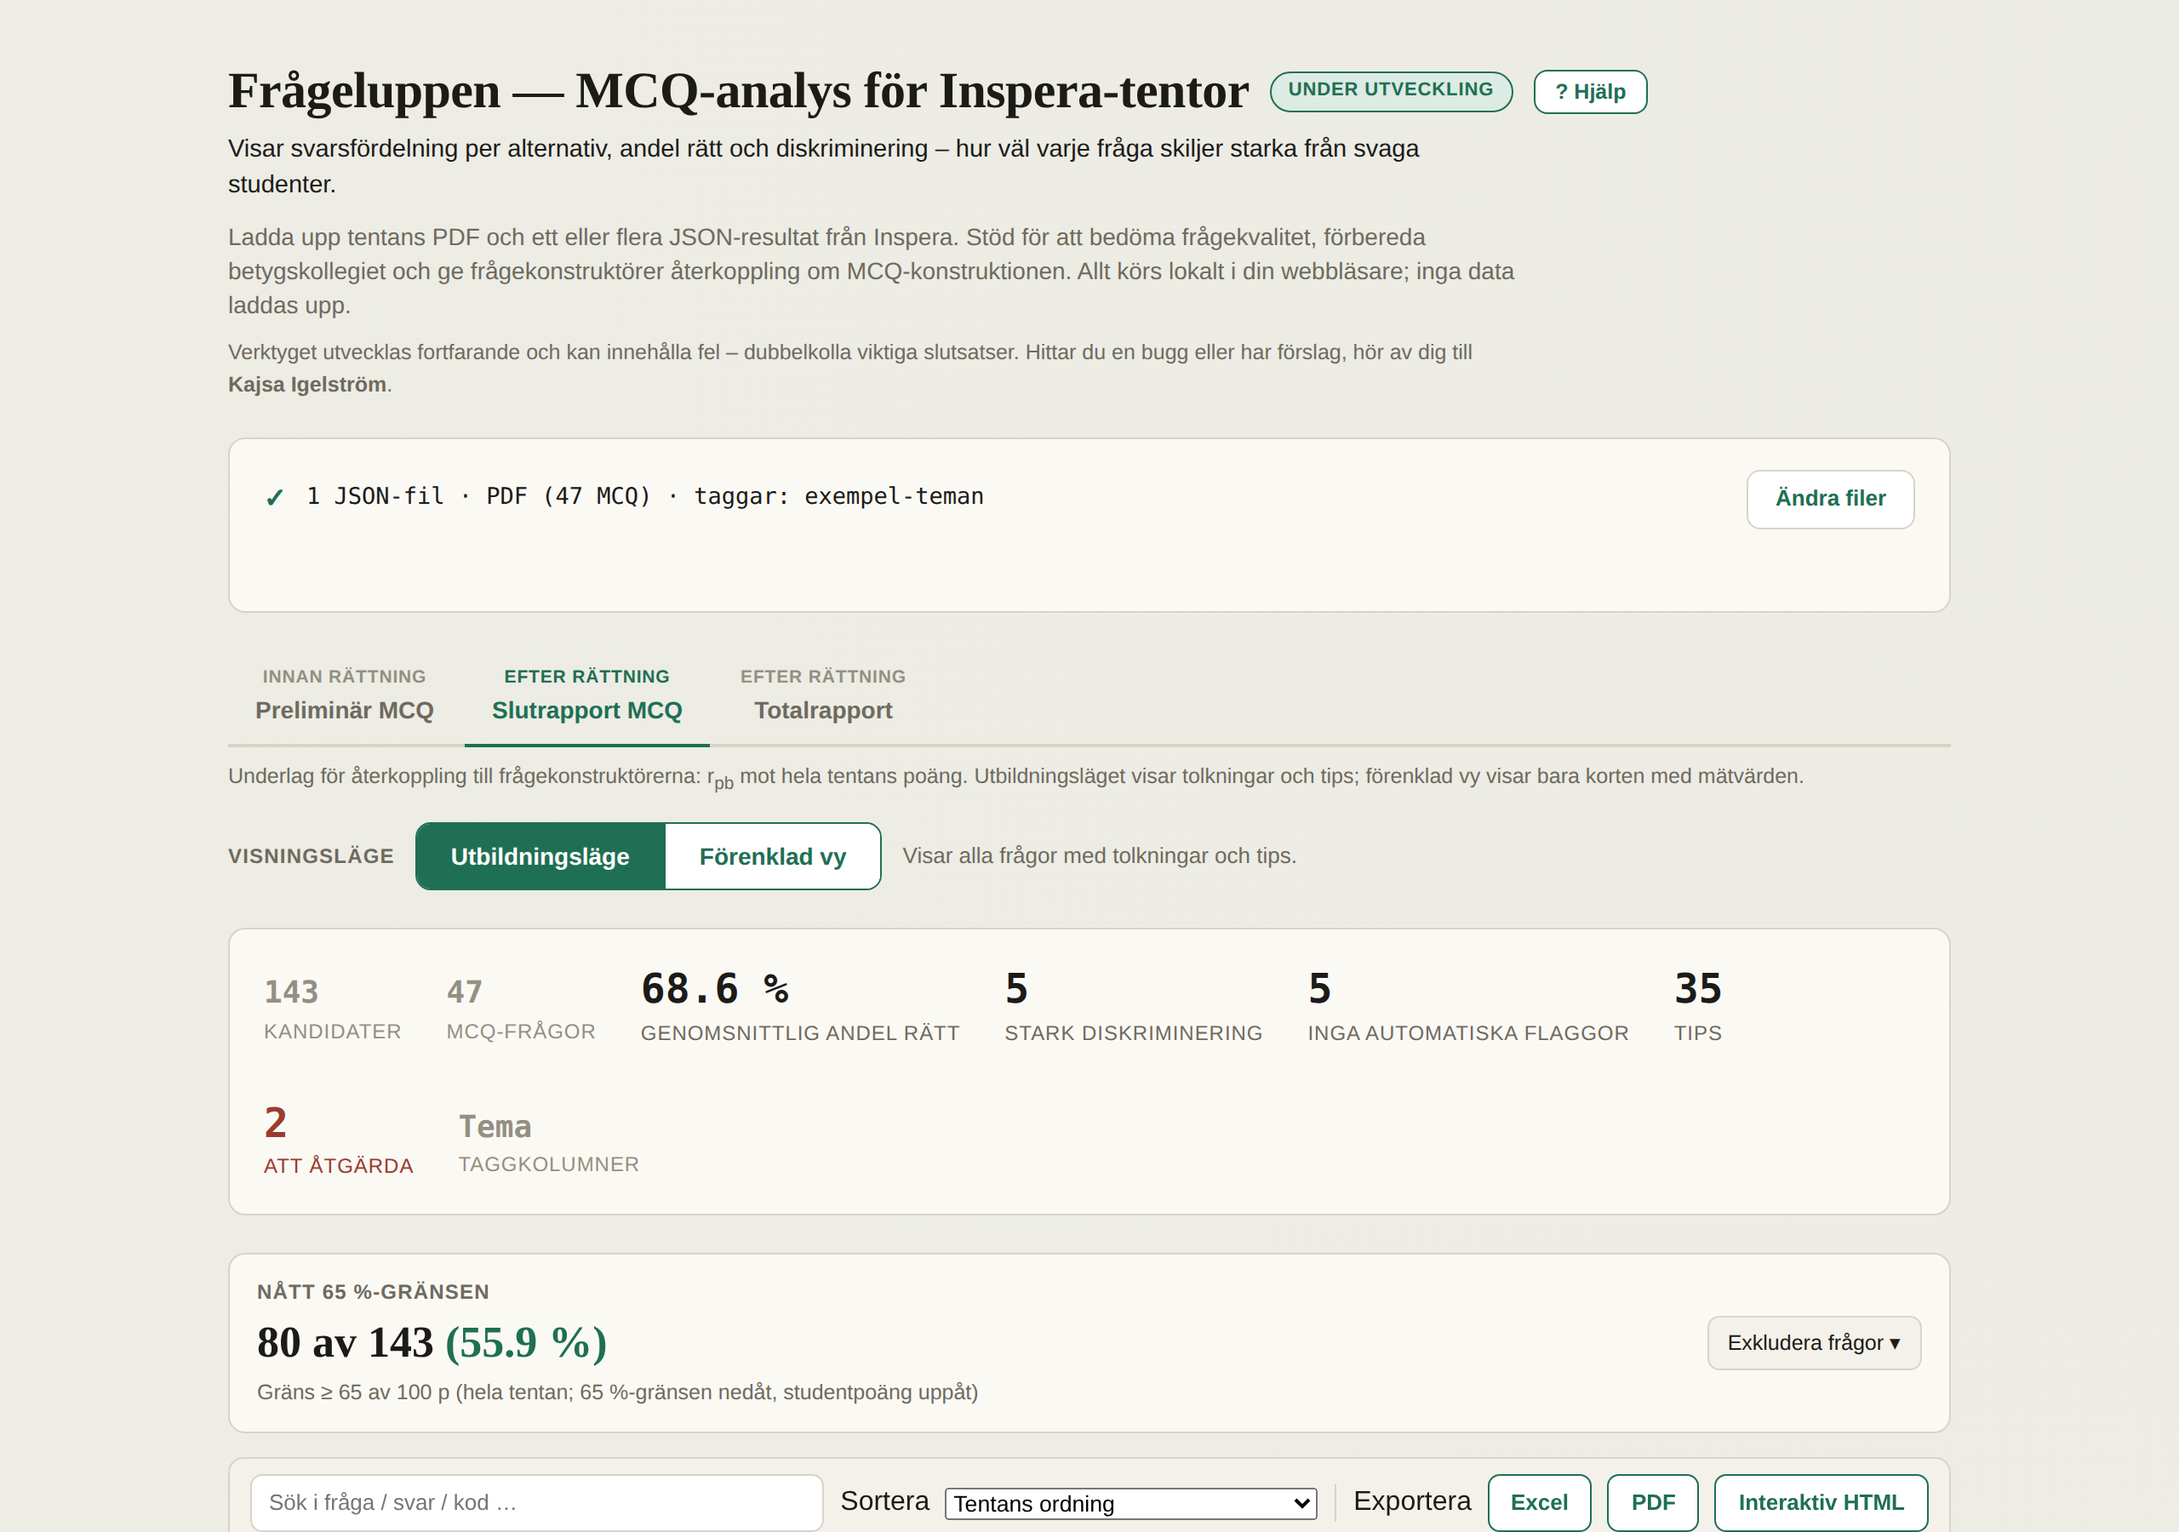
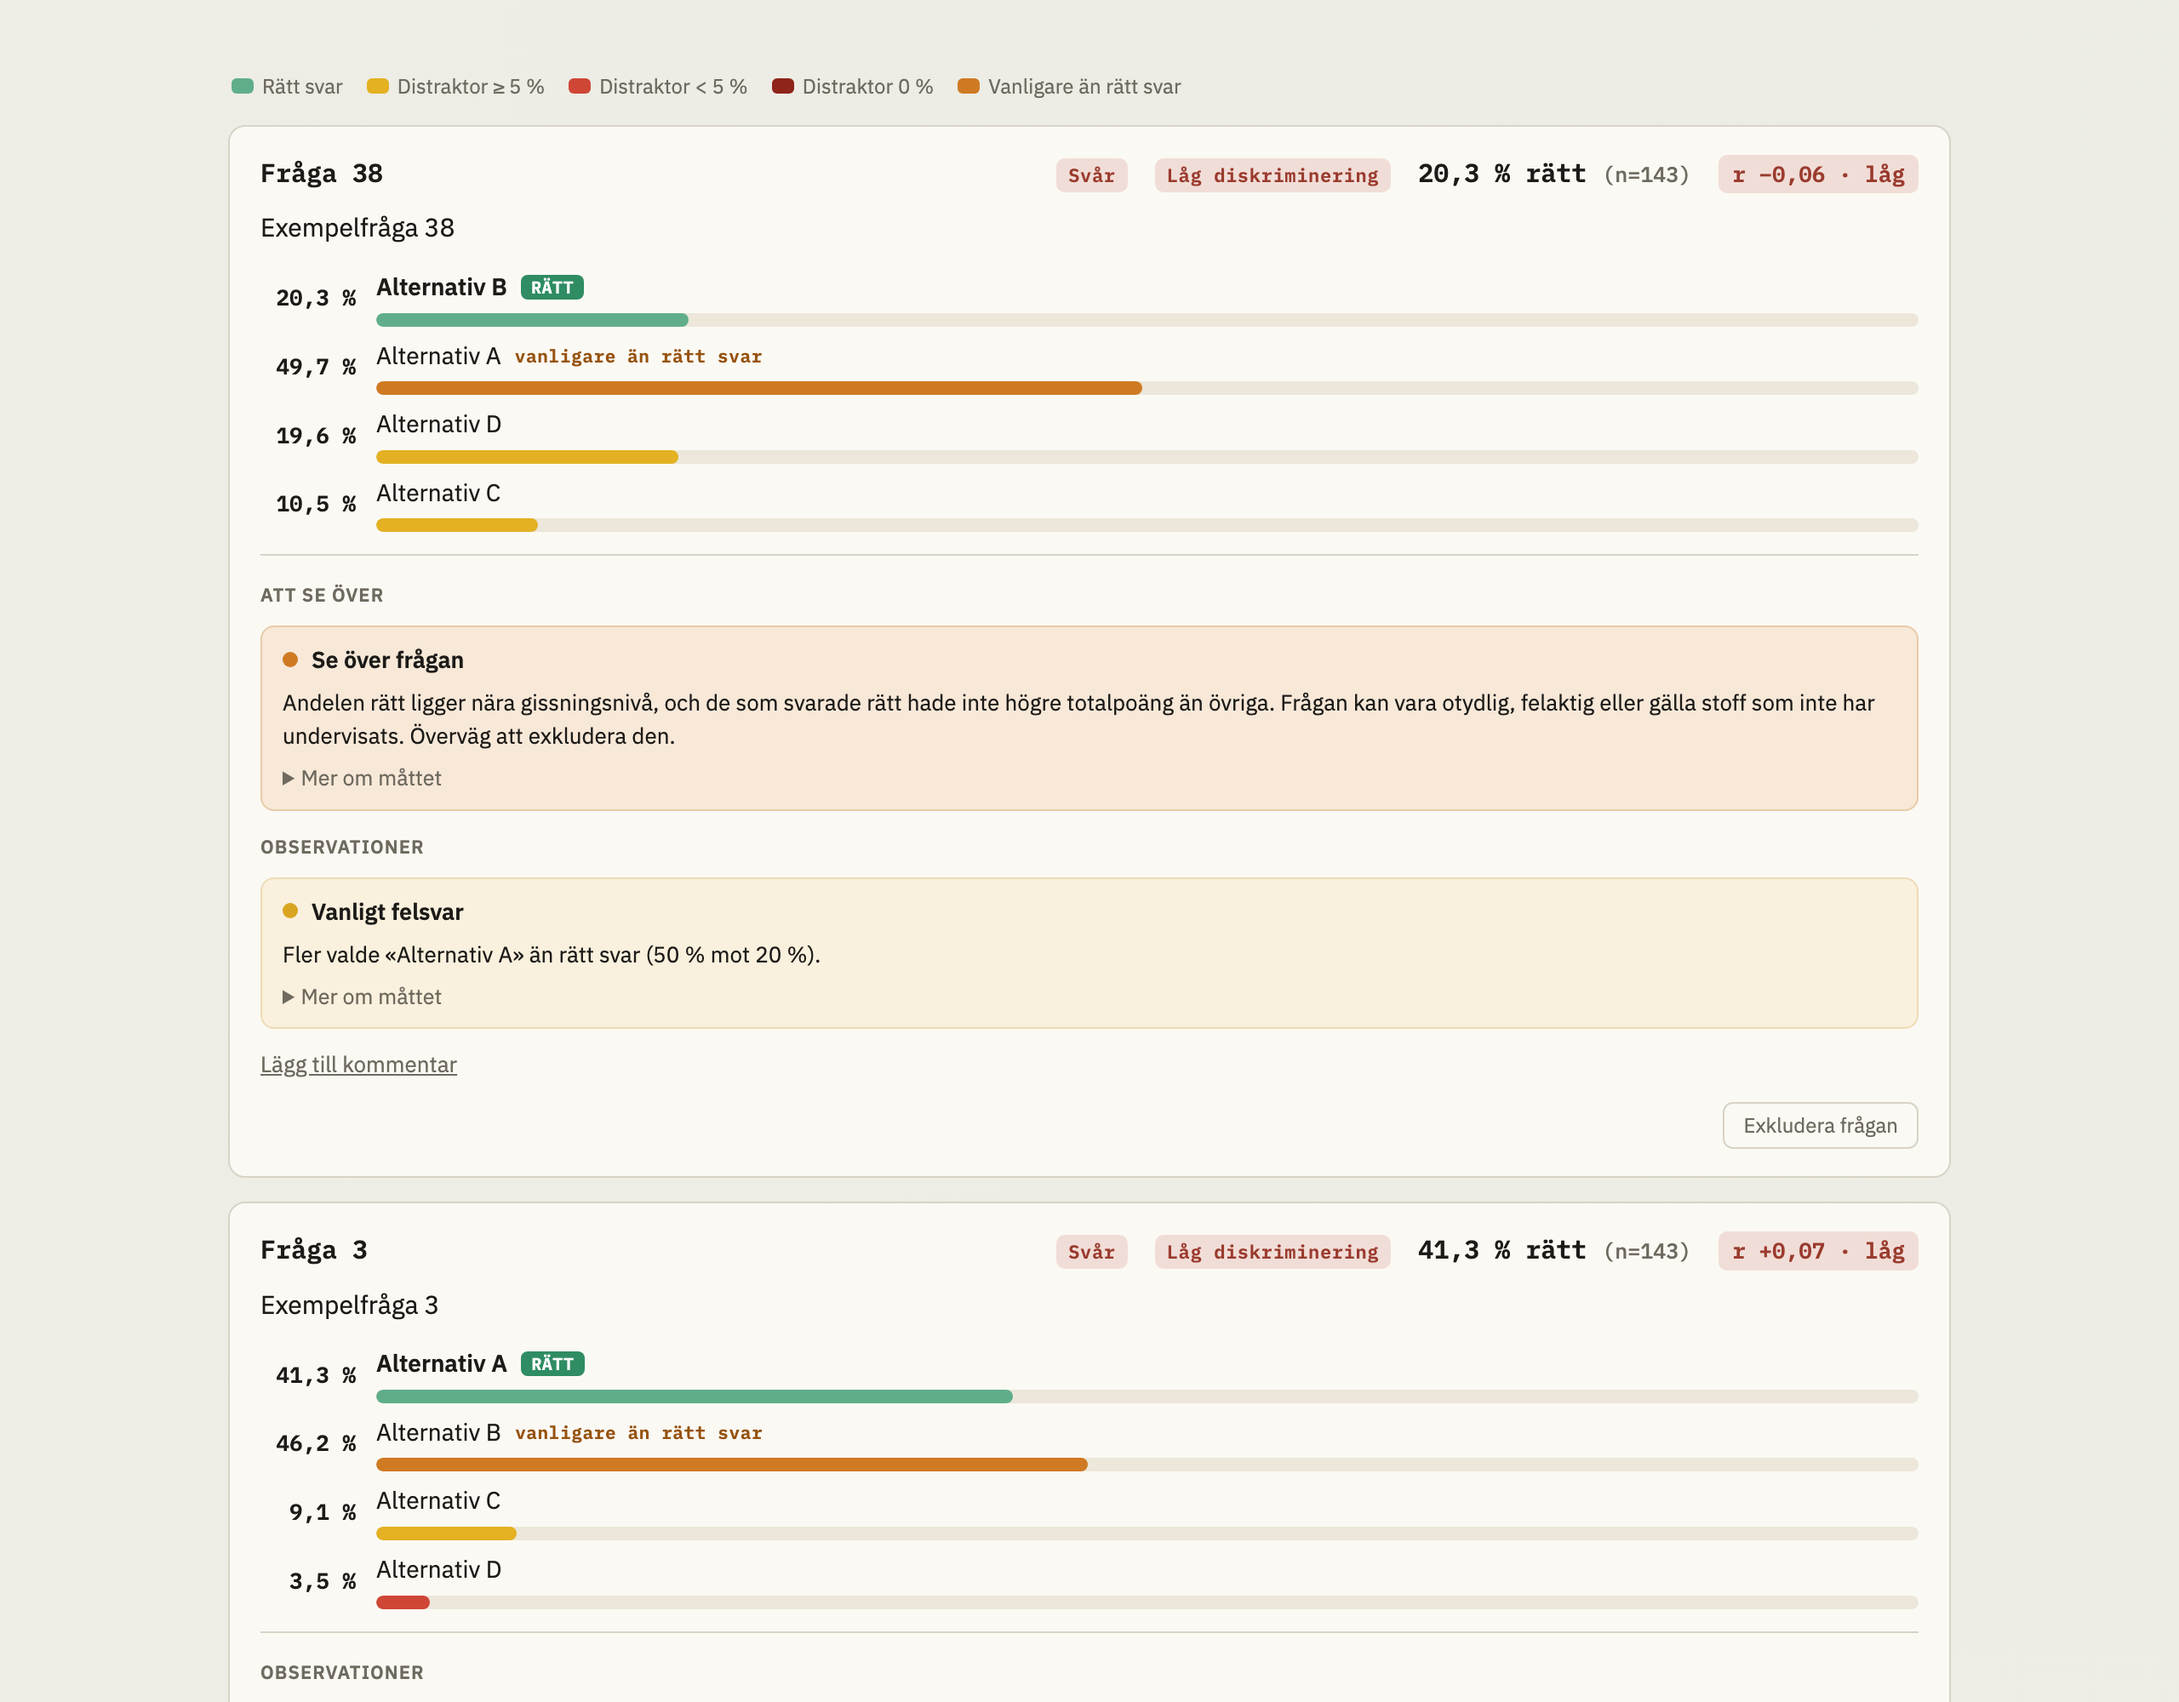
Nya skärmbilder i README, och översiktstabellen ger inte essäfrågor etiketten god

diff --git a/index.html b/index.html
@@ -699,7 +699,7 @@ function discLabel(r){
 }
 /* Version & attribution – enda sanningskälla. Bumpa VERSION vid release (MINOR = nya
    funktioner, PATCH = buggfixar, MAJOR = omarbetning) och sätt UPDATED till releasedatum. */
-const VERSION = "3.32.1";
+const VERSION = "3.32.2";
 const UPDATED = "2026-11-22";
 
 /* Hjälptext – gemensam källa för appen och den exporterade filen. Rendereras i en enkel
@@ -2357,7 +2357,7 @@ function overviewPayload(){
       diffMean: mean, diffPct: isSingle?null:(m.max?mean/m.max*100:0),
       excluded:isExcluded(m.num), reason:exclReason(m.num),
       r:(r===null||r===undefined)?null:r,
-      info:neutralInfo({cls:info.cls,value:info.value,label:info.label,tip:info.tip}, r)};
+      info:neutralInfo({cls:info.cls,value:info.value,label:info.label,tip:info.tip,note:info.note,noGood:info.noGood}, r)};
   });
   const nExcl=J.qMeta.filter(m=>isExcluded(m.num)).length;
   return {head:{exam:state.examName||"", n, nq:J.qMeta.length, nExcl, maxRed:+reducedMax(J).toFixed(1), maxTotal:+J.maxTotal.toFixed(1)}, rows};
@@ -2380,7 +2380,7 @@ function overviewHtml(payload, rows, filt, credit){
       : `${kom(r.diffMean)} / ${kom(r.max)} <span class="mut">(${r.diffPct.toFixed(0)} %)</span>`;
     return `<tr class="${r.excluded?'trexcl':'tr'}"><td class="num">${esc(String(r.num))}</td>`
       +`<td>${esc(r.title||String(r.num))}${r.excluded?` <span class="ex">exkluderad${r.reason?` · ${esc(r.reason)}`:""}</span>`:""}</td>`
-      +`<td>${esc(r.typeLabel)}</td><td class="num">${r.max}</td><td>${diff}</td>`
+      +`<td>${esc(r.typeLabel)}</td><td class="num">${kom(r.max)}</td><td>${diff}</td>`
       +`<td>${esc(r.info.value)} <span class="mut">${esc(r.info.label||"")}</span></td></tr>`;
   }).join("");
   const sub=(h.exam?[h.exam]:[]).concat([`${h.n} studenter`, rows.length===h.nq ? `${h.nq} frågor` : `${rows.length} av ${h.nq} frågor`])

diff --git a/README.md b/README.md
@@ -77,15 +77,31 @@ tentans frågor fungerade och innehåller bara sammanräknade resultat.
 
 ## Så här ser det ut
 
-Skärmbilderna nedan är från en äldre version av verktyget och visar inte dagens tre steg:
+**Steg 1, förbered filer.** Insperas filer släpps i rutorna, och kvittot under dem säger vad som lästes in.
 
-![Frågeluppen – MCQ-vy med sammanfattning](docs/shot-cards.png)
+![Steg 1: filrutorna, kvittot och valen av nästa steg](docs/shot-steg1.png)
 
-Översikten över hela tentan, varje frågas svårighet och diskriminering, är numera exporten Översiktstabell:
+**Steg 2, hitta problemfrågor.** De flervalsfrågor som statistiken pekar ut före betygssättningen.
 
-![Frågeluppen – totalrapport](docs/shot-total.png)
+![Steg 2: frågorna att se över före betygssättning](docs/shot-steg2.png)
 
-*(Skärmbilderna visar syntetiska, avidentifierade data och en äldre version av verktyget.)*
+**Steg 3, skapa rapporter.** Exporterna, filtret och det som gäller flera frågor på samma sätt.
+
+![Steg 3: exportknappar, filter och mönster i frågorna](docs/shot-rapport.png)
+
+**Ett kort per fråga.** Svarsfördelning, andel rätt och diskriminering, med uppmaning och observationer där svaren följer ett mönster.
+
+![Frågekort med uppmaning och observation](docs/shot-cards.png)
+
+**Temarapporten** till temagrupperna, med tentans reliabilitet överst.
+
+![Temarapporten](docs/shot-tema.png)
+
+**Översiktstabellen**, en rad per fråga.
+
+![Översiktstabellen](docs/shot-total.png)
+
+*(Skärmbilderna visar en syntetisk tenta utan riktiga svar eller frågetexter, version 3.32.)*
 
 ---
 

diff --git a/CHANGELOG.md b/CHANGELOG.md
@@ -6,6 +6,12 @@ ska alltid matcha den senaste Git-taggen.
 Loggen börjar vid 3.13.0 (utgångsläget när repot skapades). Tidigare historik finns
 inte dokumenterad här.
 
+## 3.32.2
+- **Översiktstabellen gav essäfrågor etiketten "god"**, fast korten inte gör det. Tabellen tappade uppgiften
+  om att etiketten inte gäller essä- och flersvarsfrågor. Nu säger tabellen och kortet samma sak, och
+  maxpoängen skrivs med decimalkomma. Hittat när skärmbilderna i README togs om.
+- Nya skärmbilder i README, tagna på den syntetiska tentan.
+
 ## 3.32.1
 Två rättningar i kvittot i steg 1, efter prov på en T1-tenta (22 nov 2026).
 - **Flervalsfrågor och flersvarsfrågor räknas var för sig**, till exempel "47 flervalsfrågor och 5
